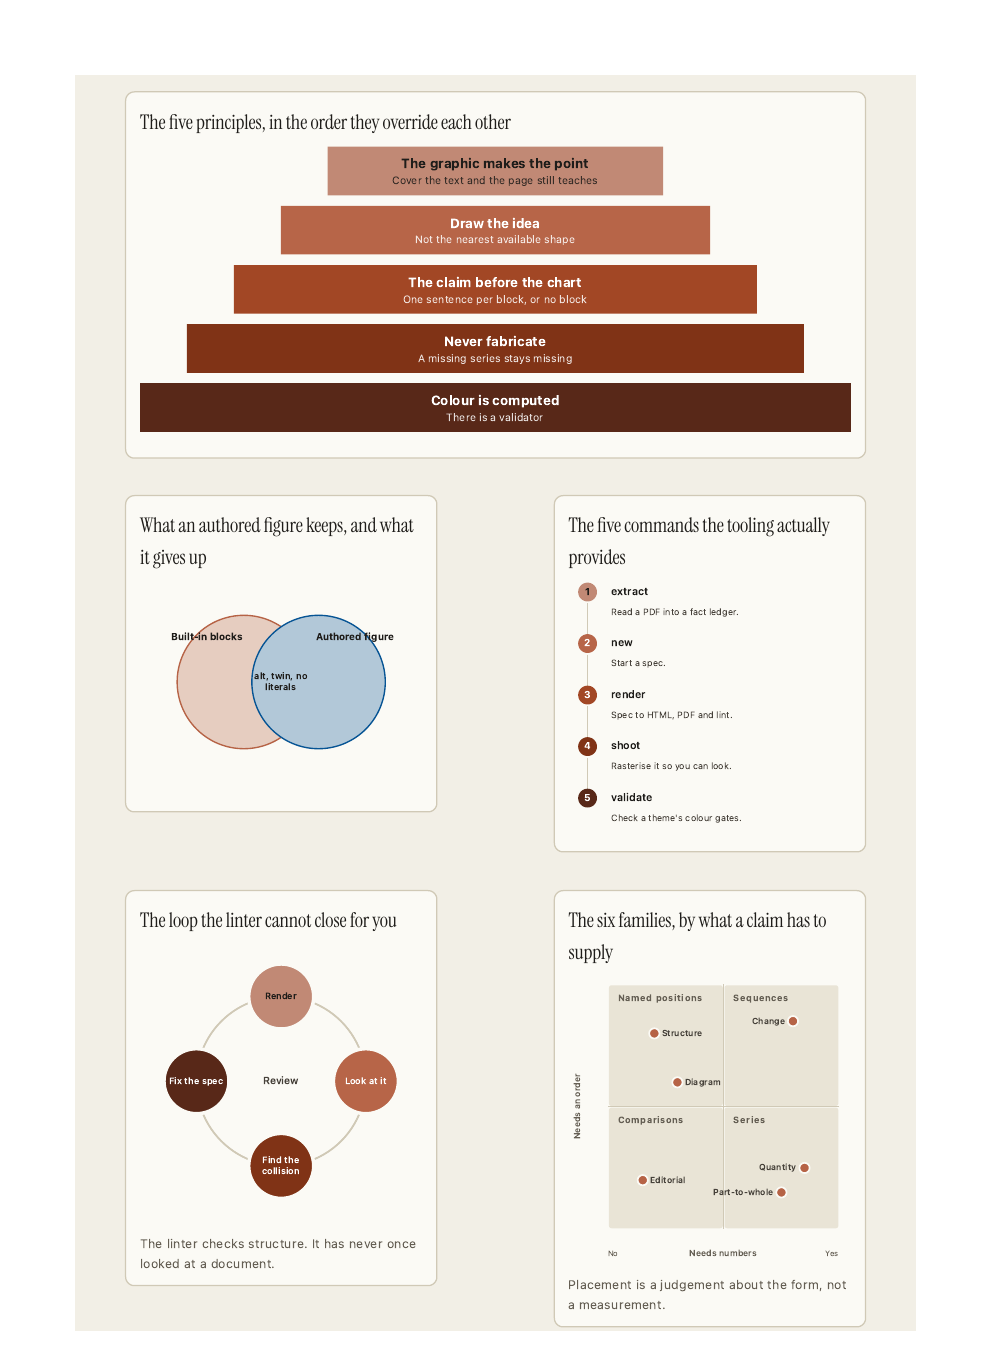
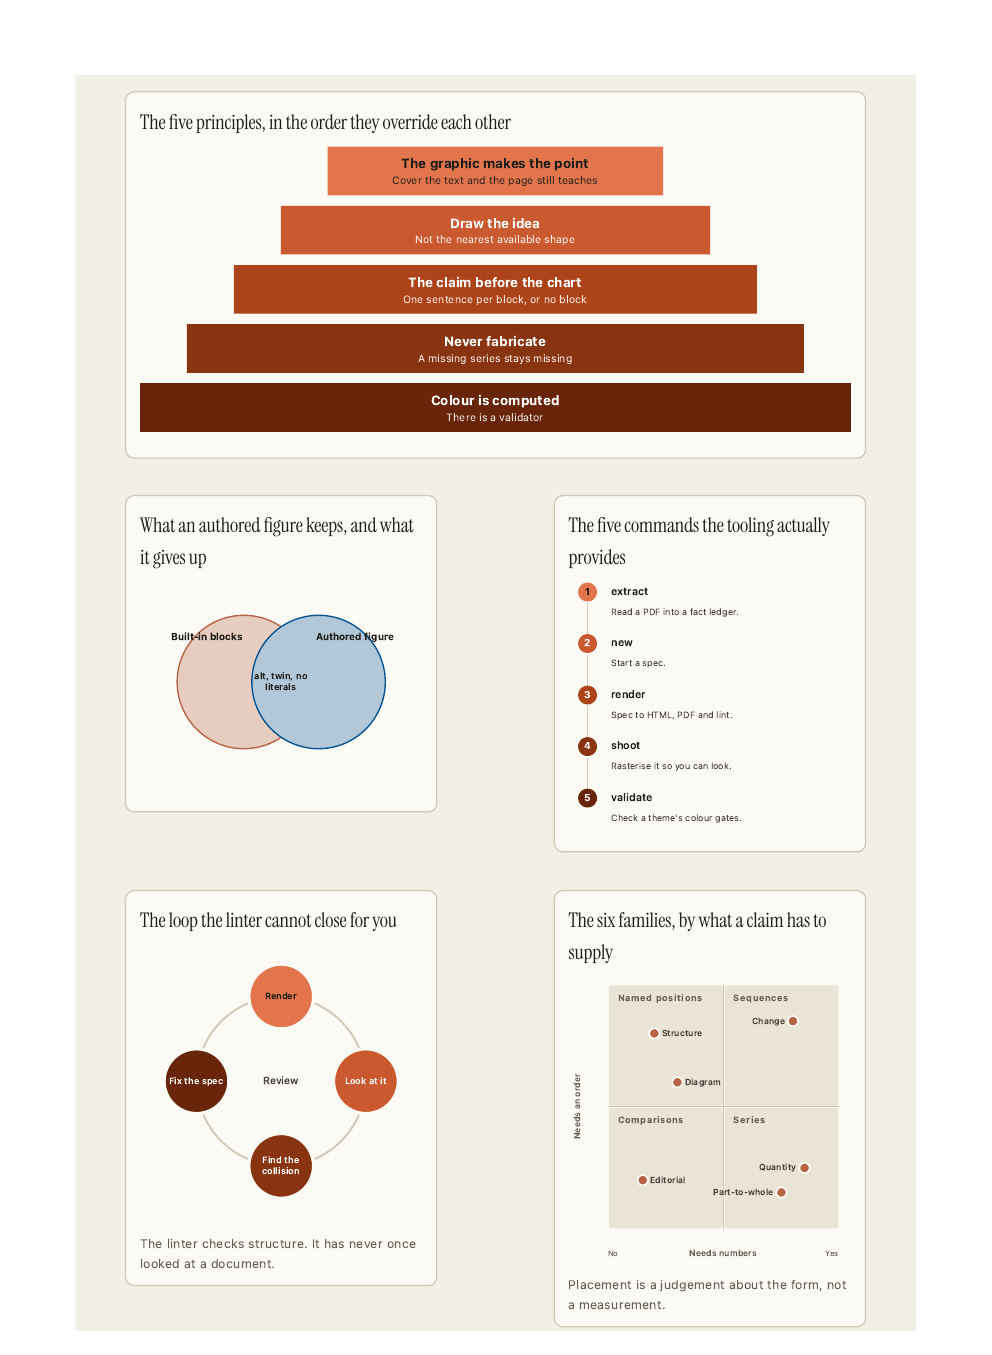
v3.3.1: fix four measured defects in the iris theme
The sequential ramps drove chroma with a sine, which is zero at BOTH ends, so
their last two steps came out at C 0.013 and C 0.012: neutral grey where a ramp
should be at its most saturated. Heatmaps, funnels and treemaps read as
greyscale wearing a colour legend. The profile now rises to a plateau and stays
on it; what limits the dark end is the sRGB gamut, not the curve. The dark half
holds 52% of peak chroma, against 9% before.

Nothing caught that, so the gate learns it. The ordinal check measures hue
SPREAD and lightness monotonicity, and neither can see this: a grey has no hue
to spread, and a fade to grey is still monotone. validate_theme.py now requires
the dark half of a ramp to hold 40% of that ramp's own peak, and selftest.py
asserts the same threshold. Every bundled theme clears it; rentos is closest at
41%. 423 assertions.

Status was a set of strangers. `serious` sat at hue 48 and `critical` at hue
29, either side of the accent at hue 40, so a DON'T panel painted itself in the
house colour; and `good` was a green at hue 150 that appeared nowhere else in
the theme, so a tick read as framework chrome. Status now comes out of the
theme's own families: good is the green slot, warning is the gold slot, and
serious and critical are two steps down one crimson, which is honest, because
severity is ordinal. Every status hue clears the accent by 36 degrees.

The eight slots were re-searched. Slot 3 sat 0.030 of lightness from clay,
[…]

Changed region(s): [[0.2812, 0.093, 0.7188, 0.186], [0.3438, 0.7749, 0.4062, 0.8369], [0.25, 0.7129, 0.3125, 0.7749]]

diff --git a/scripts/validate_theme.py b/scripts/validate_theme.py
@@ -52,6 +52,34 @@ def dig(theme: Theme, path: str) -> str:
 
 WAIVABLE = {"Lightness band": "lightness_band", "Chroma floor": "chroma_floor"}
 
+RAMP_CHROMA_HOLD = 0.40
+
+
+def ramp_chroma(theme: Theme):
+    """Check that a continuous ramp still has its hue where it is darkest.
+
+    The ordinal gate measures hue SPREAD and lightness monotonicity, and
+    neither can see this failure: a gray has no hue to spread from the rest,
+    and a ramp that fades to gray is still perfectly monotone. So it passes,
+    and the heatmap it paints is a grayscale one wearing a color legend.
+
+    The dark half of a sequential ramp is where it should be MOST saturated.
+    Requiring it to hold 40% of the ramp's own peak chroma is a floor, not a
+    target: every bundled theme clears it (rentos' cool ramp is closest, at
+    41%), and the iris ramp that shipped in v3.3.0 held 9%.
+    """
+    rows = []
+    for key, label in (("sequential", "Ramp chroma, dark end"),
+                       ("sequential_alt", "Ramp chroma, alt hue")):
+        steps = theme.data[key]["steps"]
+        peak = max(vp.oklch(s)[1] for s in steps)
+        worst = min(vp.oklch(s)[1] for s in steps[len(steps) // 2:])
+        held = worst / peak if peak else 0.0
+        rows.append((label, held >= RAMP_CHROMA_HOLD,
+                     f"holds {held:.0%} of its own peak ({worst:.3f} of {peak:.3f}), "
+                     f"need {RAMP_CHROMA_HOLD:.0%}"))
+    return rows
+
 
 def report(theme: Theme, rows, ok_all):
     """Print each check. A documented waiver downgrades a FAIL to WAIVED and
@@ -97,6 +125,11 @@ def check_theme(name: str, strict: bool = False) -> bool:
     print("\nordinal ramp, alternate hue")
     rows, good = vp.validate_ordinal(theme.ordinal_steps(alt=True), "light", surface_light)
     ok = report(theme, rows, good) and ok
+
+    if not theme.grayscale:
+        print("\ncontinuous ramps, chroma held into the dark end")
+        rows = ramp_chroma(theme)
+        ok = report(theme, rows, all(r[1] for r in rows)) and ok
 
     print("\ntext & chrome contrast (WCAG)")
     for label, fg_path, bg_path, minimum in TEXT_PAIRS:

diff --git a/scripts/selftest.py b/scripts/selftest.py
@@ -26,6 +26,7 @@ from lib import leading_numbers  # noqa: E402
 from lib import density, registry, svg  # noqa: E402
 from lib.blocks_diagram import CHIP_PAD, _chip_rows, balanced_columns  # noqa: E402
 from lib.theme import Ctx, Theme  # noqa: E402
+import validate_palette  # noqa: E402
 
 HERE = os.path.dirname(os.path.abspath(__file__))
 SKILL = os.path.dirname(HERE)
@@ -113,6 +114,18 @@ def test_theme():
               t.diverging(0).lower() == t.data["diverging"]["mid"].lower())
         check(f"{name}: sequential(0) is lighter than sequential(1)",
               svg.luminance(t.sequential(0)) > svg.luminance(t.sequential(1)))
+        # A ramp is supposed to be MOST saturated where it is darkest. Neither
+        # the ordinal gate nor the check above can see a ramp that fades to
+        # gray at the dark end: a gray has no hue to spread, and the fade is
+        # still perfectly monotone. So assert it. Threshold matches
+        # validate_theme.RAMP_CHROMA_HOLD.
+        if not t.grayscale:
+            steps = t.data["sequential"]["steps"]
+            peak = max(validate_palette.oklch(s)[1] for s in steps)
+            worst = min(validate_palette.oklch(s)[1] for s in steps[len(steps) // 2:])
+            check(f"{name}: the ramp keeps its hue into the dark end",
+                  worst >= 0.40 * peak,
+                  f"holds {worst / peak:.0%} of peak chroma, need 40%")
         check(f"{name}: has an accent_text role", "accent_text" in t.data["ink"])
         # The de-emphasis gray is still a data mark, not chrome: below 3:1 the
         # context series it carries disappears in print.

diff --git a/assets/gen_gallery.py b/assets/gen_gallery.py
@@ -47,7 +47,8 @@ FAMILY_TICK = dict(FAMILY_LABEL, part="Part")
 # The validator prints its gate groups as sentences; a scorecard column head is
 # rotated and clipped, so each one is renamed to the noun it is checking.
 GATE_LABEL = {"categorical slots": "Categorical", "categorical slots 1-3": "Scatter trio",
-              "ordinal ramp": "Ordinal ramp", "text & chrome contrast": "Text contrast"}
+              "ordinal ramp": "Ordinal ramp", "continuous ramps": "Ramp chroma",
+              "text & chrome contrast": "Text contrast"}
 GRAPHIC = {f: sum(1 for n in names if registry.REGISTRY[n].get("graphic"))
            for f, names in FAMILY.items()}
 TOTAL = len(registry.REGISTRY)

diff --git a/README.md b/README.md
@@ -11,7 +11,7 @@
 
 <p align="center">
 <a href="https://github.com/remybroun/infographic/actions/workflows/selftest.yml"><img src="https://github.com/remybroun/infographic/actions/workflows/selftest.yml/badge.svg" alt="selftest"></a>
-<a href="SKILL.md"><img src="https://img.shields.io/badge/version-3.3.0-B66346" alt="version 3.3.0"></a>
+<a href="SKILL.md"><img src="https://img.shields.io/badge/version-3.3.1-B66346" alt="version 3.3.1"></a>
 <a href="#requirements"><img src="https://img.shields.io/badge/python-3.12%2B-B66346" alt="Python 3.12+"></a>
 <a href="GALLERY.md"><img src="https://img.shields.io/badge/block%20types-57-B66346" alt="57 block types"></a>
 <a href="#requirements"><img src="https://img.shields.io/badge/dependencies-0-B66346" alt="dependencies 0"></a>
@@ -44,7 +44,7 @@ every project, clone into `<project>/.claude/skills/infographic` instead.
 ## Verify
 
 ```bash
-python3 scripts/ig.py selftest          # 420 assertions
+python3 scripts/ig.py selftest          # 423 assertions
 python3 scripts/ig.py validate --all    # every theme through the colour checks
 python3 scripts/ig.py selftest --render # also builds all six fixtures, to PDF
 sh assets/build_gallery.sh              # rebuilds every image on this page
@@ -207,20 +207,53 @@ inversion the mark is built on. Block titles are set in the display face over
 the sans everywhere else; the serif is opt-in per theme (`type.block_title`),
 since a theme whose display face *is* its sans gains nothing from it.
 
+**Status colours come out of the theme, not from outside it.** `good` is the
+theme's green slot, `warning` is its gold, and `serious` and `critical` are two
+steps down one crimson, which is honest because severity is ordinal. The
+version before this one had `critical` at hue 29° and the accent at 40°, so a
+DON'T panel painted itself in the house colour, and a `good` green that
+appeared nowhere else in the theme, so a tick read as framework chrome. Every
+status hue now sits at least 36° clear of the accent.
+
 **The eight categorical slots are deliberately not the brand.** A chart needs
 eight separable identities and a brand has two, so forcing the slots to the
-brand hues is how "brand-safe" palettes end up unreadable. Clay and blue lead,
-and the other six were found by enumerating a hue grid and keeping only the sets
-that clear every gate, with a minimum 32° hue gap so that no two slots collapse
-into the same family. The first search passed the gate with four oranges and
-four blues, which is legal, because the gate measures adjacent pairs and the
-first three slots, and useless in an eight-series scatter. The gate is a floor,
-not a target.
+brand hues is how "brand-safe" palettes end up unreadable. Clay and blue lead
+and the other six are searched, under three rules the gate itself cannot check:
+a 36° minimum hue gap, so no two slots collapse into one family; an objective
+that maximises the worst pair *anywhere* rather than the worst adjacent pair;
+and a lightness spread across the first three, which are the ones a scatter
+puts side by side. Each rule exists because the search broke without it. Scored
+on adjacency alone it returned four oranges and four blues. Given a 32° gap it
+returned two dark crimsons 33° apart. Both are legal, because past slot three
+the gate only measures adjacent pairs, and both are useless in a legend. The
+gate is a floor, not a target.
+
+That third rule has a ceiling worth writing down, because it is a property of
+the page and not of the search. The cream ground stops a chromatic fill
+clearing 3:1 above L 0.65, and the two brand slots are pinned at L 0.590 and
+L 0.441, so slot three has about 0.06 of lightness to move in. Worse, the
+things you want from it fight each other: a high-contrast slot three has to be
+dark, which puts it beside navy in lightness, which leaves only hue to separate
+them, which is exactly what protanopia takes away. One candidate measured a
+comfortable 4.70:1 on the page and a useless 7.5 ΔE from navy for a protanope.
+So slot three is taken from the light side, and the trio's colour-vision floor
+is held at 15 ΔE so it cannot regress.
+
+One of those checks is new here, and it is new because this theme failed it.
+A ramp is supposed to be at its most saturated where it is darkest; the first
+`iris` ramp drove chroma with a sine, which is zero at *both* ends, so its last
+two steps came out neutral grey and a heatmap read as greyscale wearing a
+colour legend. Nothing caught it: the ordinal gate measures hue *spread* and
+lightness monotonicity, and a grey has no hue to spread, and a fade to grey is
+still perfectly monotone. The gate now requires the dark half of a ramp to hold
+40% of that ramp's own peak chroma. Every bundled theme clears it (`rentos` is
+closest, at 41%); the ramp that shipped in 3.3.0 held 9%.
 
 All four themes pass the computable colour checks: contrast, categorical
-separation, and colour-vision-deficiency distance. `iris` is the only one that
-needs no waiver; `rentos` records one, because brand olive measures a chroma of
-0.087 against a 0.10 floor and a brand colour cannot be re-stepped. A new theme
+separation, ramp saturation, and colour-vision-deficiency distance. `iris` is
+the only one that needs no waiver; `rentos` records one, because brand olive
+measures a chroma of 0.087 against a 0.10 floor and a brand colour cannot be
+re-stepped. A new theme
 is a JSON file, not code. The scorecard in the sheet above counts the checks per
 theme; `mono` runs fewer of them because greyscale has fewer categorical slots
 to separate, not because it scores worse.
@@ -299,12 +332,14 @@ Three things are still wrong, and none of them is faked:
 
 - **The images are light, so they glare in dark mode.** Fixing that properly
   needs a validated dark theme, which does not exist yet.
-- **The gallery build reports two warnings.** `near-empty-page` fires on the
-  closing alias sheet at 3% ink. It is measuring correctly and measuring the
-  wrong thing: that sheet is mostly full by area and almost empty by ink, because
-  a grid of outlined chips is mostly the page showing through. The check is tuned
-  for documents rather than specimen sheets, and it is reported rather than
-  suppressed.
+- **The figure build reports three findings and suppresses none of them.** The
+  gallery warns that its `cycle` specimen asked for 380px in a 330px column, and
+  it is right; a specimen sheet packs blocks tighter than a document would. The
+  three-frame README strip sets `tables: false`, so `no-table-view` fires as an
+  error and `sparse-pages` as a warning. Both checks are correct about a
+  document and wrong about a raster image frame, where a `<details>` twin is a
+  control nobody can operate. That is the one `|| true` in
+  `assets/build_gallery.sh`, and the reason is written beside it.
 - **The `rentos` theme's fonts live outside this repo.** Its `fonts_dir` points
   at a sibling brand directory, so a fresh clone renders it in Georgia and Helvetica
   instead of Instrument Serif and Inter. The build now warns when a declared font

diff --git a/SKILL.md b/SKILL.md
@@ -1,7 +1,7 @@
 ---
 name: infographic
 description: Turn text, a document, or a topic into a graphic-first explainer: an imaginative schoolbook-style HTML page where full-page drawings, diagrams and legends carry the ideas and the text is titles only (a print-ready PDF only when asked). Use for an infographic, visual explainer, one-pager, data poster, concept or architecture diagram, or chart-driven report, and whenever the ask is to visualize or explain something visually. Not for interactive dashboards or slide decks.
-version: 3.3.0
+version: 3.3.1
 user-invocable: true
 argument-hint: "[source file, or the topic to explain] [--theme default|iris|rentos|mono] [--page a4|a3|slide|scroll]"
 allowed-tools:
